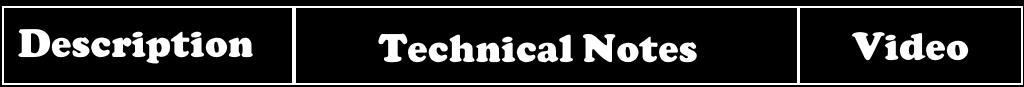
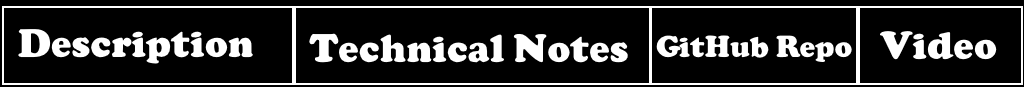
Git Repo added to project pages

Changed region(s): [[0.2812, 0.092, 1.0, 0.9425]]

diff --git a/portfolioEntry.js b/portfolioEntry.js
@@ -1,5 +1,6 @@
 let desc = null
 let notes = null
+let repo = null
 let img = document.querySelector("#portImg")
 let navBar = document.querySelector("#navBar")
 let video = document.querySelector("#portVideo")
@@ -13,6 +14,7 @@ img.style.display = "block"
 if (window.location.href.includes("Japanese")) {
     desc = "./images/portfolioImages/jpnDescription.png"
     notes = "./images/portfolioImages/jpnNotes.png"
+    repo = "https://github.com/dancoder-engineer/JapaneseThroughRetroGaming"
     video.src="https://www.youtube.com/embed/BOhMCx3oDoE"
 }
 
@@ -26,16 +28,20 @@ function clickNavBar(e) {
         descLeft: 2/449,
         descRight: 126/449,
         notesLeft: 130/449,
-        notesRight: 349/449,
-        videoLeft: 352/449,
+        notesRight: 284/449,
+        repoLeft: 287/449,
+        repoRight: 374/449,
+        videoLeft: 377/449,
         videoRight: 446/449,
         topOfBar: 303/336,
         bottom: 336/336,
     }
 
     let changableWidth = xPos/e.target.clientWidth
+
     let descTruth = (changableWidth >= positions.descLeft && changableWidth <= positions.descRight)
     let notesTruth = (changableWidth >= positions.notesLeft && changableWidth <= positions.notesRight)
+    let repoTruth = (changableWidth >= positions.repoLeft && changableWidth <= positions.repoRight)
     let videoTruth = (changableWidth >= positions.videoLeft && changableWidth <= positions.videoRight)
 
 
@@ -49,6 +55,7 @@ function clickNavBar(e) {
             video.style.display = "none"
             img.src = notes
         }
+        else if (repoTruth) { location.href = repo}
         else if (videoTruth) { showVideo() }
  
 }
